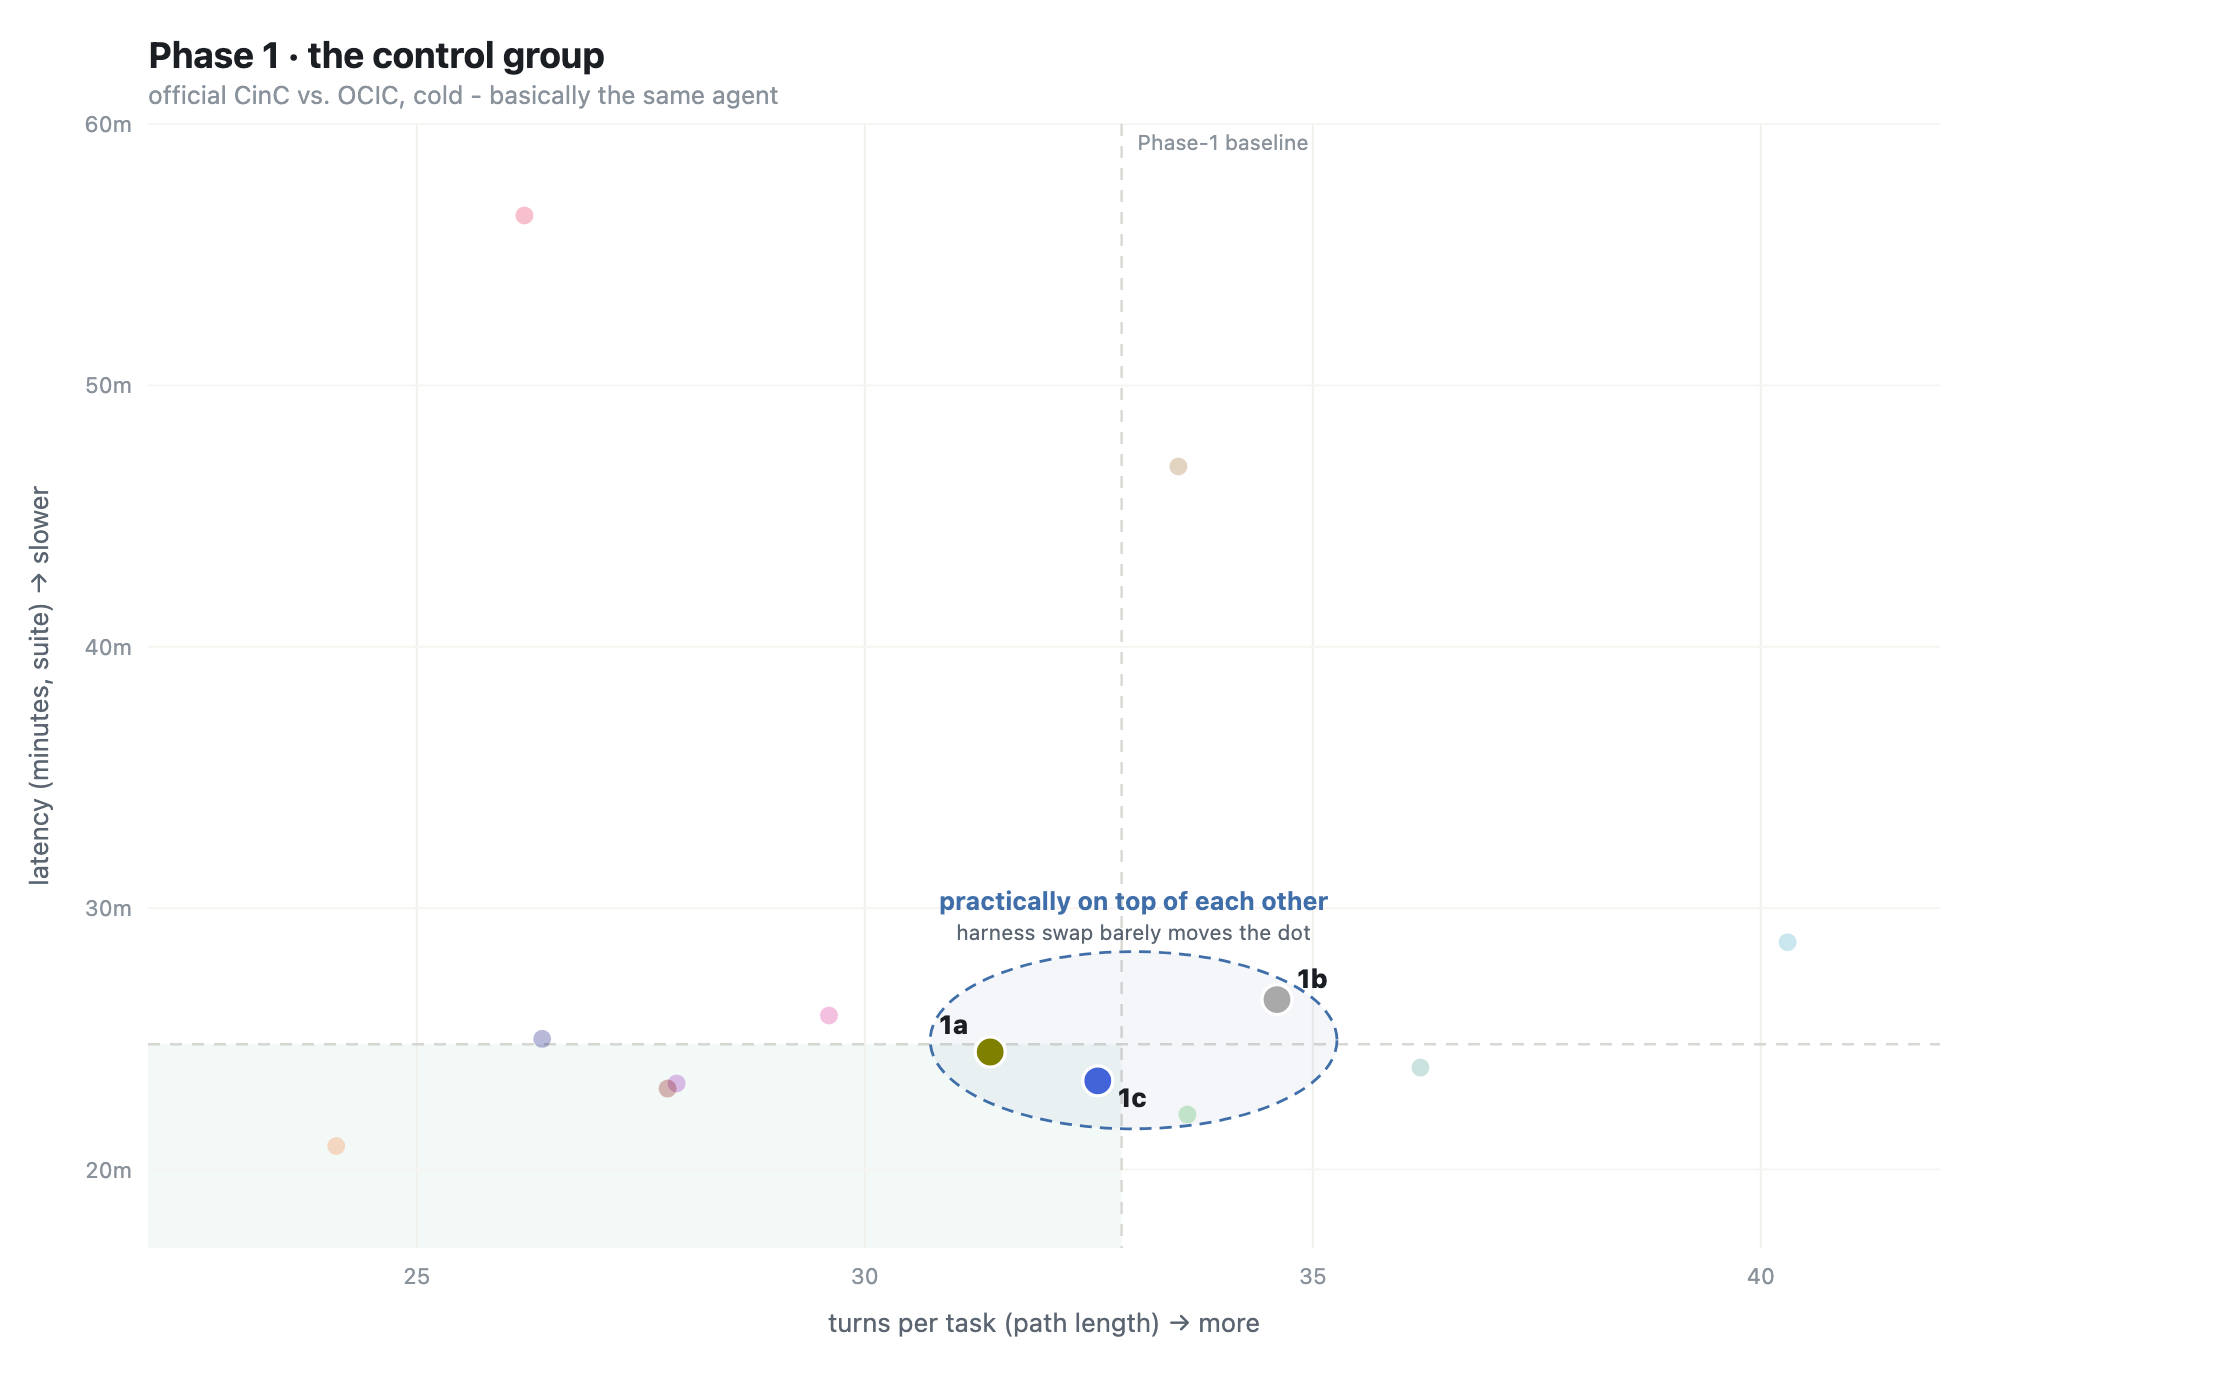
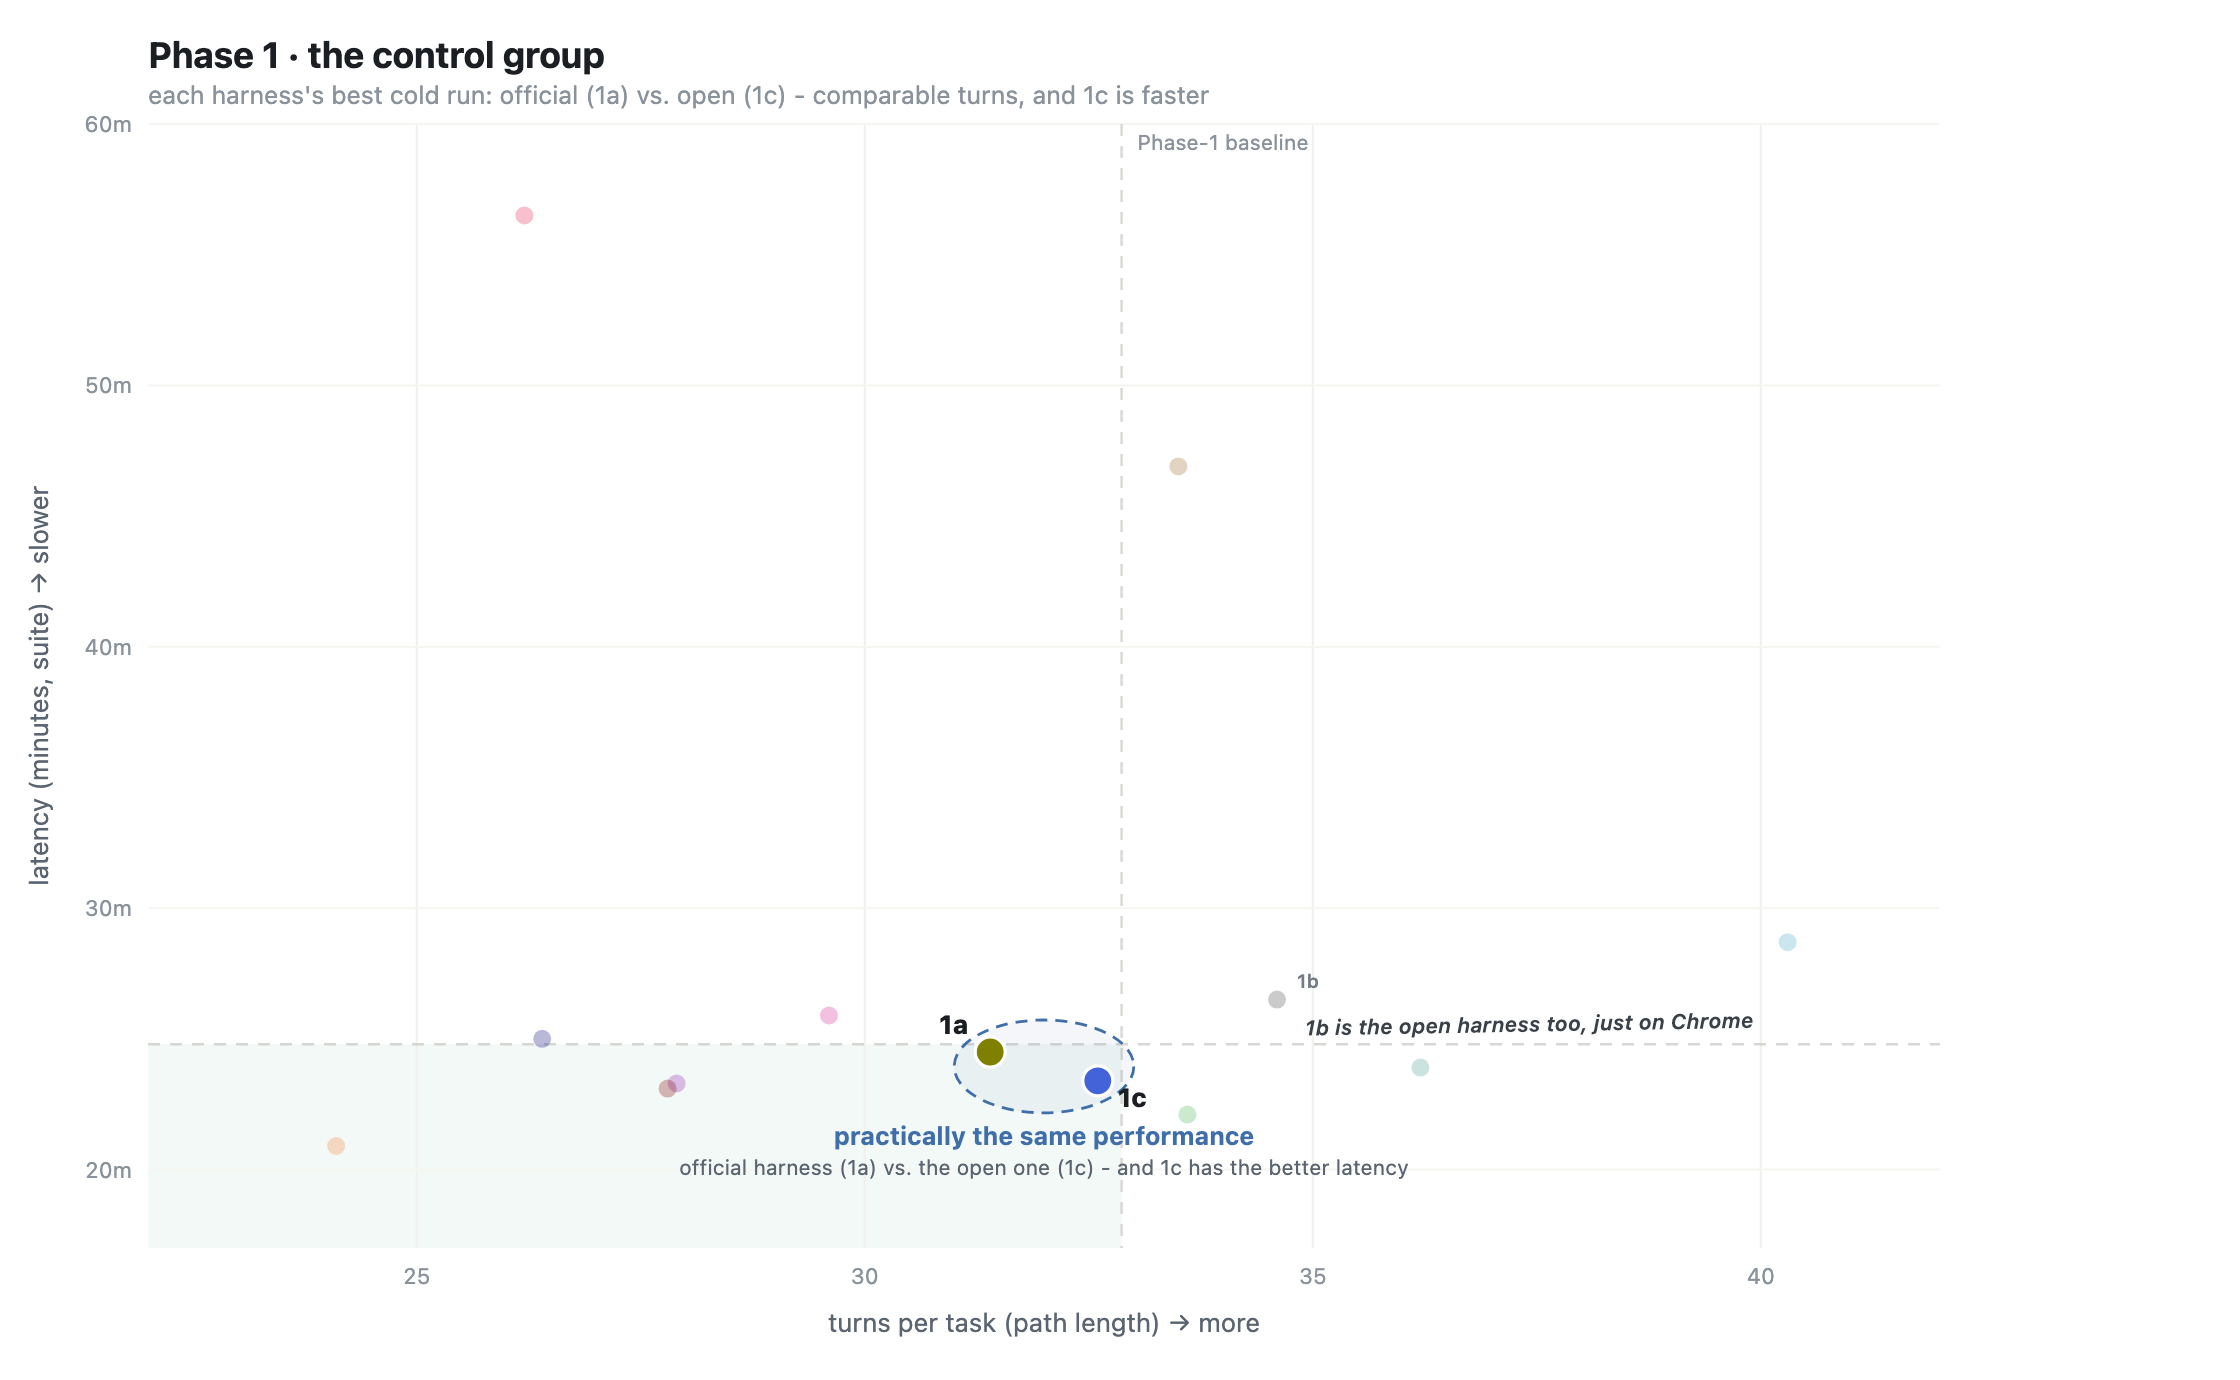
Phase-1 highlight: ring 1a vs 1c (each harness's best), note 1b as open-on-Chrome
Claude-Session: https://claude.ai/code/session_01E67x1Lsi6bTTp3Lya5vKEH

Changed region(s): [[0.4062, 0.6232, 0.7812, 0.7478], [0.3125, 0.8101, 0.625, 0.8725], [0.0625, 0.0623, 0.5312, 0.0935]]

diff --git a/benchmark/analysis/phase1_highlight.html b/benchmark/analysis/phase1_highlight.html
@@ -25,12 +25,13 @@
 <text x="522.0" y="666" text-anchor="middle" font-size="13" fill="#5b6571">turns per task (path length) &#8594; more</text>
 <text x="24" y="343.0" text-anchor="middle" font-size="13" fill="#5b6571" transform="rotate(-90 24 343.0)">latency (minutes, suite) &#8594; slower</text>
 <text x="74" y="34" font-size="18" font-weight="700" fill="#1b1f24">Phase 1 · the control group</text>
-<text x="74" y="52" font-size="12.5" fill="#8a929c">official CinC vs. OCIC, cold - basically the same agent</text>
-<ellipse cx="566.8" cy="520.1" rx="101.7" ry="44.3" fill="#3f6ea8" fill-opacity="0.06" stroke="#3f6ea8" stroke-width="1.4" stroke-dasharray="6 4"/><text x="566.8" y="454.8" text-anchor="middle" font-size="12.5" font-weight="700" fill="#3f6ea8">practically on top of each other</text><text x="566.8" y="469.8" text-anchor="middle" font-size="10.5" fill="#5b6571">harness swap barely moves the dot</text>
+<text x="74" y="52" font-size="12.5" fill="#8a929c">each harness's best cold run: official (1a) vs. open (1c) - comparable turns, and 1c is faster</text>
+<ellipse cx="522.0" cy="533.2" rx="44.9" ry="23.2" fill="#3f6ea8" fill-opacity="0.06" stroke="#3f6ea8" stroke-width="1.4" stroke-dasharray="6 4"/><text x="522.0" y="572.4" text-anchor="middle" font-size="12.5" font-weight="700" fill="#3f6ea8">practically the same performance</text><text x="522.0" y="587.4" text-anchor="middle" font-size="10.5" fill="#5b6571">official harness (1a) vs. the open one (1c) - and 1c has the better latency</text>
+<text x="652.5" y="517.8" text-anchor="start" font-size="10.5" font-weight="600" font-style="italic" fill="#3a4148" transform="rotate(-1 652.5 517.8)">1b is the open harness too, just on Chrome</text>
 <circle cx="548.9" cy="540.4" r="7.5" fill="#4363d8" stroke="#fff" stroke-width="1.6"/>
 <text x="558.9" y="553.4" text-anchor="start" font-size="13" font-weight="800" fill="#1b1f24">1c</text>
-<circle cx="638.5" cy="499.8" r="7.5" fill="#a9a9a9" stroke="#fff" stroke-width="1.6"/>
-<text x="648.5" y="493.8" text-anchor="start" font-size="13" font-weight="800" fill="#1b1f24">1b</text>
+<circle cx="638.5" cy="499.8" r="5" fill="#a9a9a9" opacity="0.6" stroke="#fff" stroke-width="1"/>
+<text x="648.5" y="493.8" text-anchor="start" font-size="9.5" font-weight="600" fill="#5b6571" opacity="0.85">1b</text>
 <circle cx="495.1" cy="526.0" r="7.5" fill="#808000" stroke="#fff" stroke-width="1.6"/>
 <text x="484.1" y="517.0" text-anchor="end" font-size="13" font-weight="800" fill="#1b1f24">1a</text>
 <circle cx="593.7" cy="557.3" r="4.5" fill="#3cb44b" opacity="0.28"/>

diff --git a/benchmark/analysis/build_phase_highlight.py b/benchmark/analysis/build_phase_highlight.py
@@ -177,11 +177,19 @@ def finish(s, name):
         f'<!doctype html><meta charset="utf-8"><style>*{{margin:0}}body{{background:#fff}}</style>{svg}')
     print("wrote", name)
 
-# ---------- Phase 1: the cold cluster, encircled the capstone way ----------
-s = base_chart("Phase 1 · the control group", "official CinC vs. OCIC, cold - basically the same agent", P1)
-s.append(group_ellipse(P1, GROUP_BLUE, "practically on top of each other",
-                       "harness swap barely moves the dot", lp="above"))
-draw_arms(s, P1)
+# ---------- Phase 1: each harness's top performer, encircled ----------
+# 1a (official CinC) vs 1c (open harness, primary baseline): comparable turns
+# and 1c is actually faster. 1b (the open harness on Chrome) sits outside the
+# ring at context emphasis with a note, so it reads as a variant, not a
+# counterexample.
+s = base_chart("Phase 1 · the control group",
+               "each harness's best cold run: official (1a) vs. open (1c) - comparable turns, and 1c is faster", ["1a", "1c"], context=["1b"])
+s.append(group_ellipse(["1a", "1c"], GROUP_BLUE, "practically the same performance",
+                       "official harness (1a) vs. the open one (1c) - and 1c has the better latency",
+                       lp="below", padx=18, pady=16, contain=True))
+bx1, by1 = X(BY["1b"]["turns"]), Y(BY["1b"]["min"])
+s.append(note(bx1 + 14, by1 + 18, "1b is the open harness too, just on Chrome", size=10.5, weight=600, rot=-1))
+draw_arms(s, ["1a", "1c"], context=["1b"])
 finish(s, "phase1_highlight")
 
 # ---------- Phase 2: baseline -> 2a / 2b; the two rightward runs stack ----------

diff --git a/benchmark/writeup/writeup.md b/benchmark/writeup/writeup.md
@@ -348,9 +348,9 @@ The first phase showcased the parity of performance between Claude in Chrome and
 
 
 <p align="center">
-<img src="images/phase1_highlight.png" alt="Scalar space chart with 1a, 1b, and 1c highlighted, annotated to show how tightly clustered the three baseline arms are" width="760">
+<img src="images/phase1_highlight.png" alt="Scalar space chart with 1a and 1c ringed together to show comparable performance between the official and open harness, with 1c faster on latency; 1b shown at reduced emphasis with a note that it is the open harness on Chrome" width="760">
 </p>
-<p align="center"><sub><em>Same scalar-space plot as above (all 13 arms, turns vs. latency); 1a/1b/1c popped, everything else faded.</em></sub></p>
+<p align="center"><sub><em>Same scalar-space plot as above (all 13 arms, turns vs. latency); each harness's best cold run ringed: 1a (official CinC) and 1c (open harness on Brave, the primary baseline), with 1c ahead on latency. 1b, shown at reduced emphasis, is the open harness as well, on Chrome.</em></sub></p>
 
 ### Phase 2
 | <img src="../analysis/img/leg_2a_medium.png" width="120"> | <img src="../analysis/img/leg_2b_medium.png" width="120"> |
